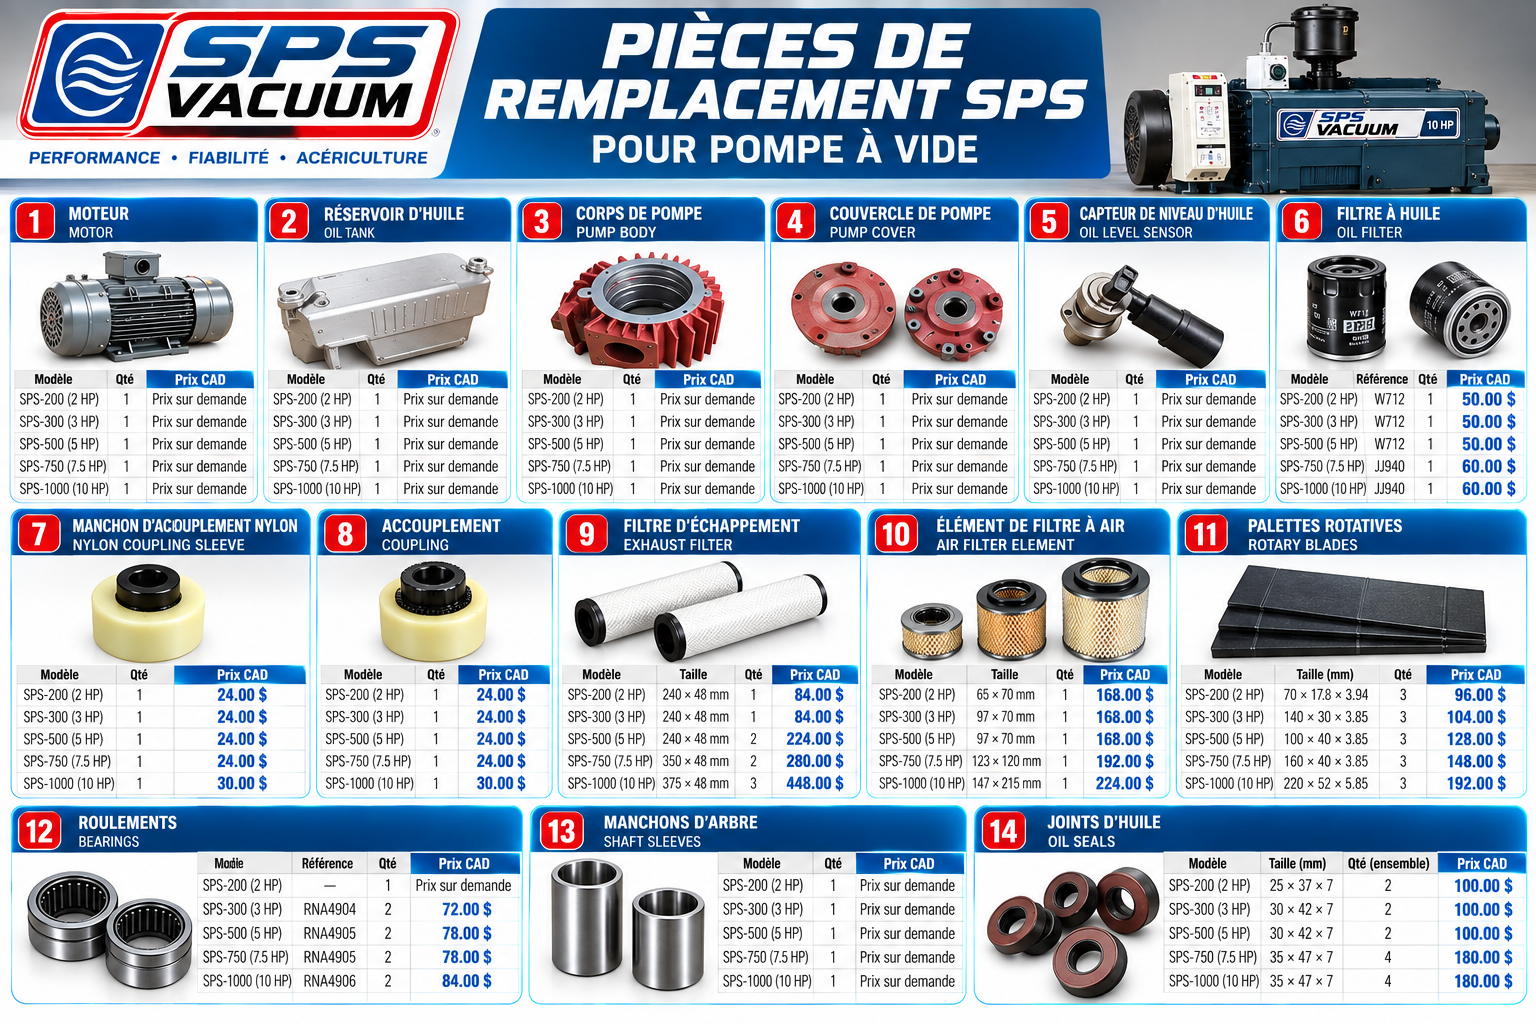
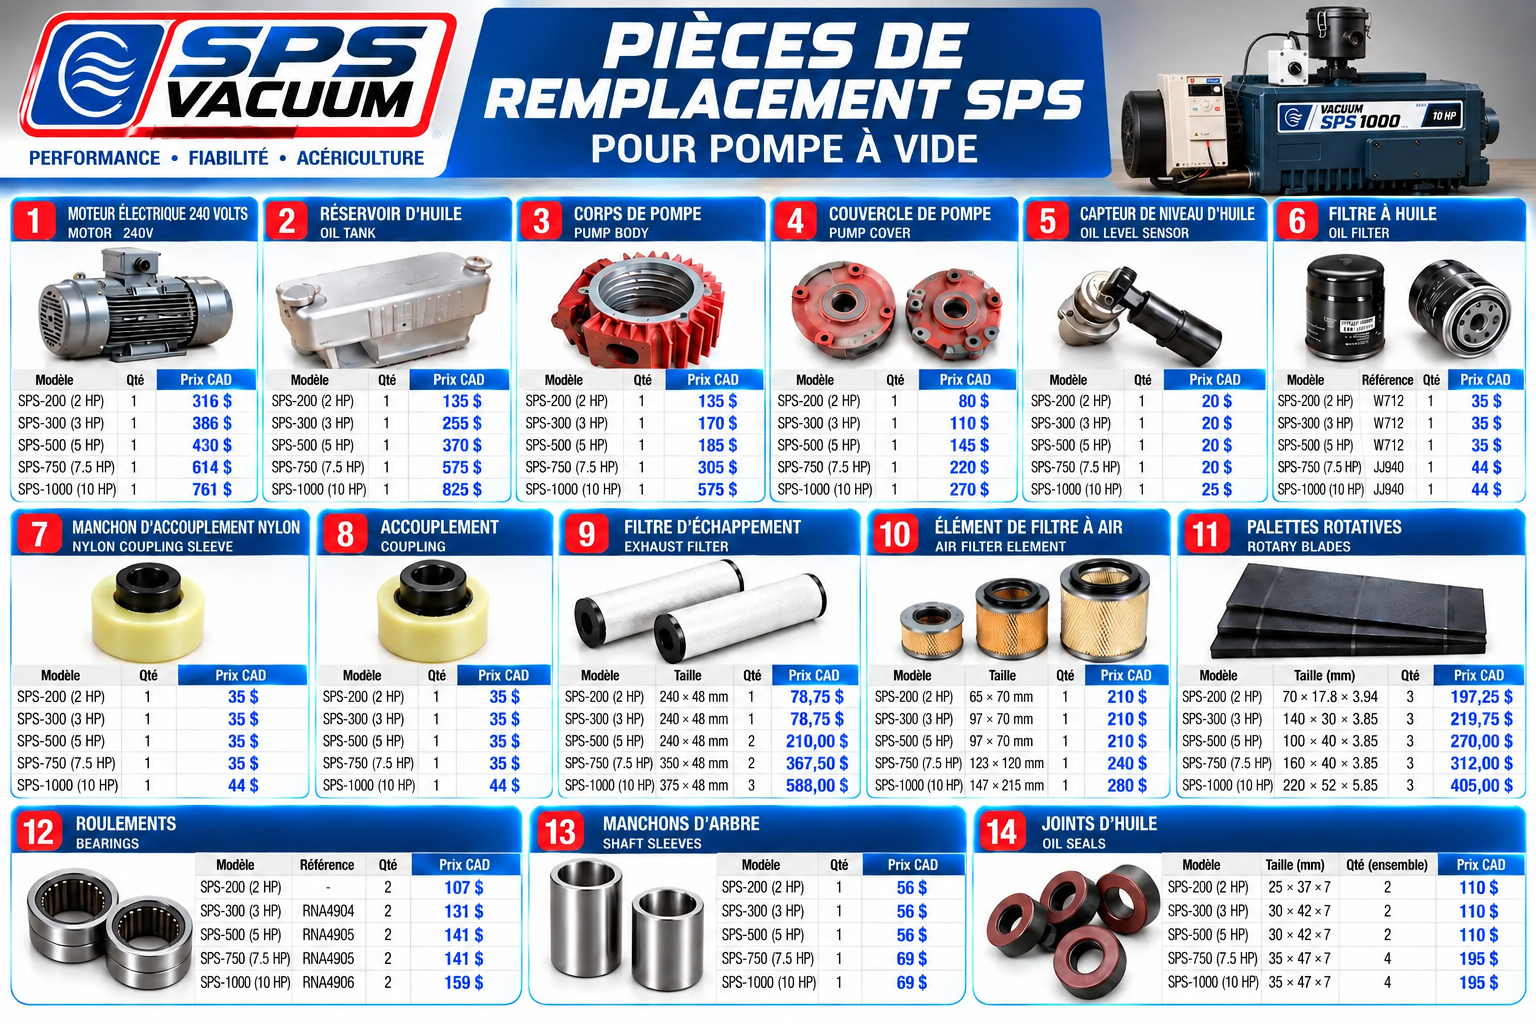
Mettre a jour la liste de prix des pieces de remplacement.

diff --git a/sps-vacuum-pump/pages/pieces.js b/sps-vacuum-pump/pages/pieces.js
@@ -35,8 +35,8 @@ export default function Pieces() {
         <Image
           src="/images/equipement/pieces-encor.png"
           alt="Pièces de remplacement SPS — pompe à vide SPS-1000 10 HP"
-          width={1600}
-          height={1100}
+          width={1536}
+          height={1024}
           className={styles.catalogImg}
           priority
         />
